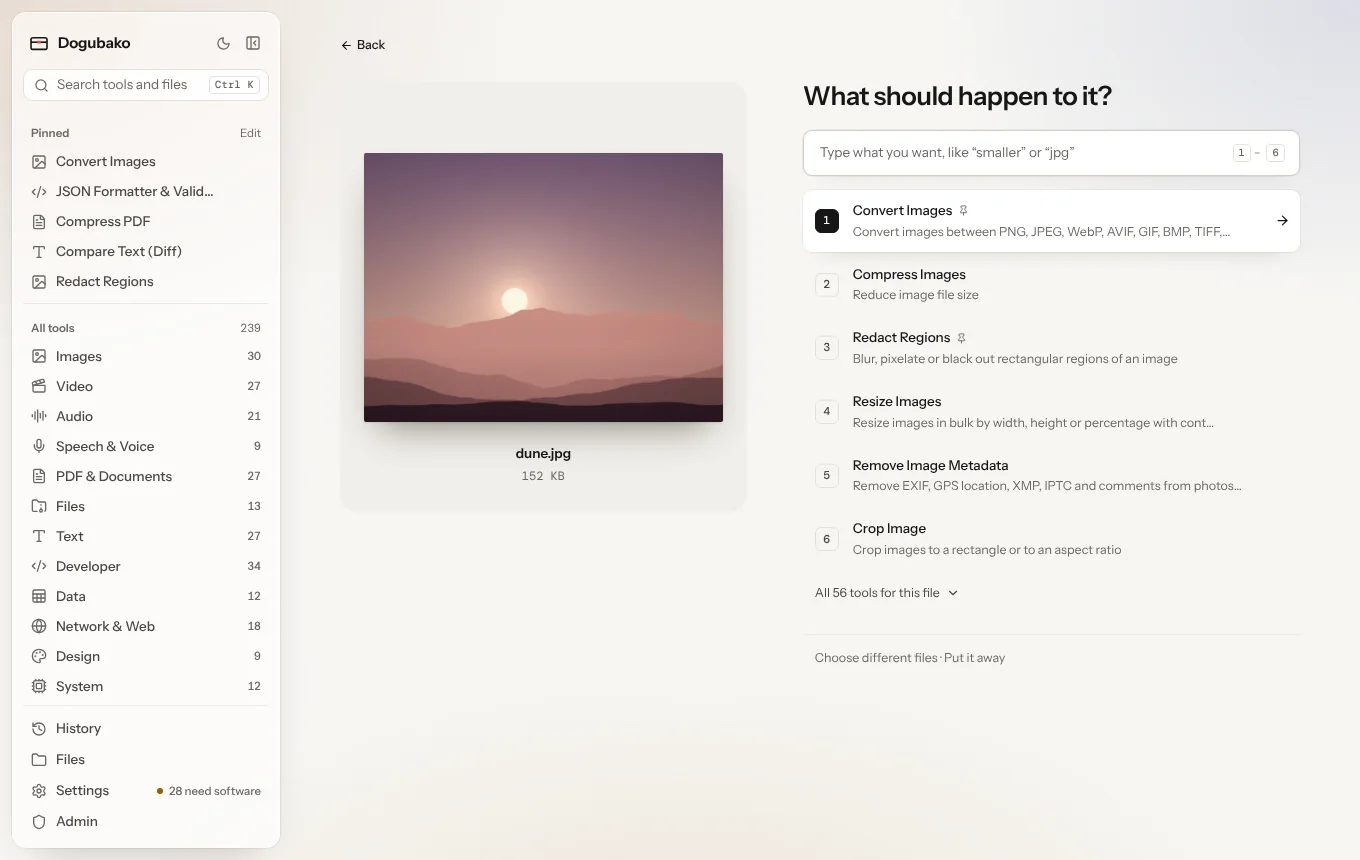
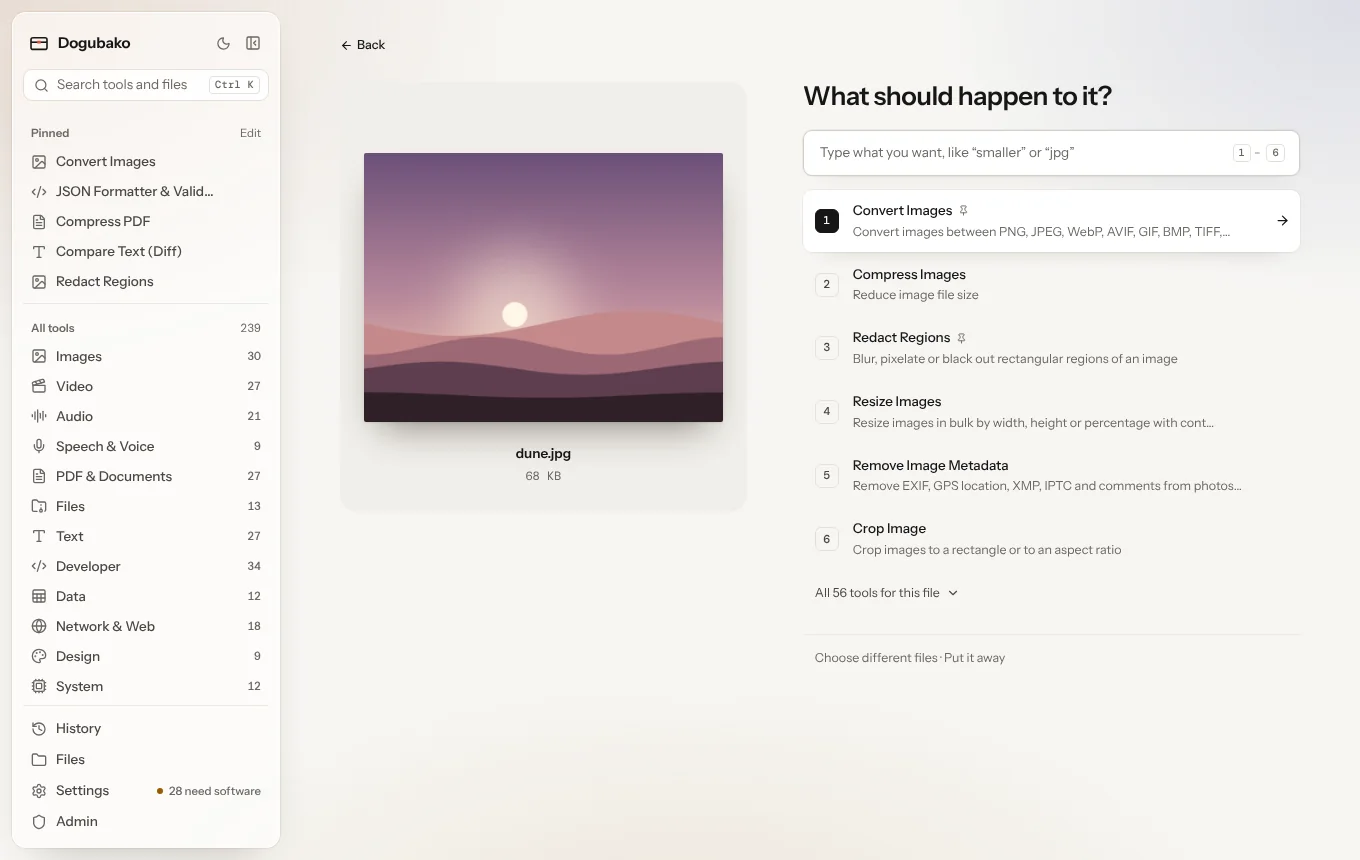
Re-capture the screenshots from the combined app
Adds website/scripts/capture-app.mjs, which seeds a few runs through the
HTTP API and walks the UI in Chromium to produce every image in
docs/screenshots, and samples.py for its sample files. The bench now shows
a photo, a PDF and a CSV, the sidebar keeps its pinned tools, and the
website's WebP copies are regenerated.

Claude-Session: https://claude.ai/code/session_01AMQFid19mGdKiCySZk49Em

Changed region(s): [[0.2471, 0.2419, 0.5559, 0.4837], [0.3706, 0.5442, 0.4015, 0.5744]]

diff --git a/website/scripts/samples.py b/website/scripts/samples.py
@@ -1,0 +1,53 @@
+#!/usr/bin/env python3
+"""Make the sample files the app screenshots use: two sunset photos and a CSV.
+
+    python3 website/scripts/samples.py /tmp/dgb-samples
+
+Needs Pillow. The output is deterministic, so screenshots stay comparable.
+"""
+import csv
+import math
+import random
+import sys
+from pathlib import Path
+
+from PIL import Image, ImageDraw, ImageFilter
+
+
+def scene(sky, hills, sun_y, w=1600, h=1200):
+    im = Image.new("RGB", (w, h))
+    d = ImageDraw.Draw(im)
+    for y in range(h):
+        t = y / h
+        a, b, u = (sky[0], sky[1], t / 0.55) if t < 0.55 else (sky[1], sky[2], min(1, (t - 0.55) / 0.25))
+        d.line([(0, y), (w, y)], fill=tuple(int(a[i] + (b[i] - a[i]) * u) for i in range(3)))
+    glow = Image.new("L", (w, h), 0)
+    ImageDraw.Draw(glow).ellipse((w * 0.42 - 260, sun_y - 260, w * 0.42 + 260, sun_y + 260), fill=150)
+    im = Image.composite(Image.new("RGB", (w, h), (255, 240, 220)), im, glow.filter(ImageFilter.GaussianBlur(120)))
+    d = ImageDraw.Draw(im)
+    d.ellipse((w * 0.42 - 55, sun_y - 55, w * 0.42 + 55, sun_y + 55), fill=(255, 246, 232))
+    for k, (col, base, amp, f) in enumerate(hills):
+        pts = [(0, h)] + [
+            (x, base + amp * math.sin(x / w * f * math.pi + k * 1.7) + amp * 0.4 * math.sin(x / w * f * 3.1 + k))
+            for x in range(0, w + 20, 20)
+        ] + [(w, h)]
+        d.polygon(pts, fill=col)
+    return im.filter(ImageFilter.GaussianBlur(1.2))
+
+
+out = Path(sys.argv[1] if len(sys.argv) > 1 else "/tmp/dgb-samples")
+out.mkdir(parents=True, exist_ok=True)
+scene([(108, 80, 122), (186, 138, 156), (226, 180, 166)],
+      [((196, 137, 138), 760, 40, 2), ((156, 104, 115), 860, 30, 3), ((94, 62, 79), 960, 26, 2.5), ((47, 32, 40), 1080, 14, 2)],
+      720).save(out / "dune.jpg", quality=92)
+scene([(58, 72, 120), (122, 128, 170), (196, 168, 180)],
+      [((96, 90, 130), 720, 110, 3), ((70, 64, 96), 860, 40, 2.5), ((44, 40, 62), 980, 26, 2), ((22, 20, 32), 1100, 12, 2)],
+      620).save(out / "dusk.png")
+rng = random.Random(4)
+with open(out / "orders.csv", "w", newline="") as f:
+    w = csv.writer(f)
+    w.writerow(["order_id", "date", "customer", "country", "items", "total_eur"])
+    for i in range(400):
+        w.writerow([10000 + i, f"2026-10-{1 + i % 30:02d}", rng.choice(["Aiko", "Ben", "Chloe", "Dmitri", "Eva", "Farah"]),
+                    rng.choice(["JP", "DE", "FR", "US", "NL"]), rng.randint(1, 6), round(rng.uniform(9, 240), 2)])
+print(f"samples in {out}")

diff --git a/website/README.md b/website/README.md
@@ -14,6 +14,7 @@ like one thing.
 | `styles.css` | Styles, light and dark (follows the system, with a toggle) |
 | `main.js` | Theme toggle, the drop demo, the screenshot tour and tabs |
 | `screenshots/` | WebP copies of `docs/screenshots`, made by `scripts/screenshots.py` |
+| `scripts/` | Screenshot capture, sample files and the WebP conversion |
 | `CNAME` | The domain, for GitHub Pages |
 
 ## Preview
@@ -25,13 +26,21 @@ python3 -m http.server --directory website 8000
 
 ## Refresh the screenshots
 
-The README and the site share one set of screenshots. Update `docs/screenshots`
-first, then:
+The README and the site share one set of screenshots in `docs/screenshots`.
+`scripts/capture-app.mjs` re-captures all of them from a running server: it
+seeds a few runs through the HTTP API, then walks the UI in Chromium.
 
 ```sh
-pip install pillow
-python3 website/scripts/screenshots.py
+cargo build -p dogubako-cli && (cd web && npm ci && npm run build)
+python3 website/scripts/samples.py /tmp/dgb-samples          # sample photos and a CSV
+target/debug/dogubako server start --no-auth --data-dir /tmp/dgb-data --bind 127.0.0.1:8420 &
+node website/scripts/capture-app.mjs http://127.0.0.1:8420 /tmp/dgb-samples
+python3 website/scripts/screenshots.py                        # WebP copies for the site
 ```
+
+Use a fresh `--data-dir` each time so the bench and history look the same.
+The scripts need Pillow (`pip install pillow`) and Playwright with Chromium
+(`NODE_PATH=$(npm root -g)` if Playwright is installed globally).
 
 ## Placeholders
 
